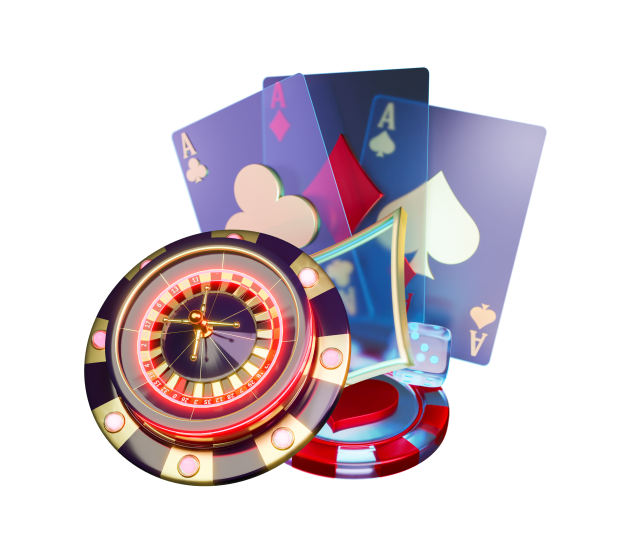
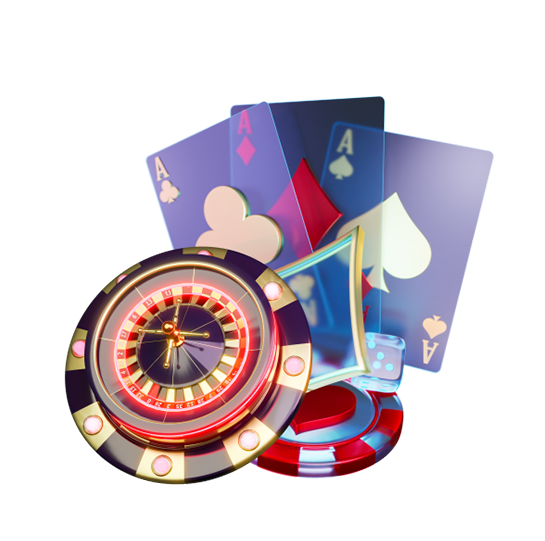
add new pages

Changed region(s): [[0.0936, 0.1183, 0.9046, 0.9168]]

diff --git a/slot-games.html b/slot-games.html
@@ -3,7 +3,7 @@
 <head>
     <meta charset="UTF-8">
     <meta name="viewport" content="width=device-width, initial-scale=1.0">
-    <title>Live Casino | Panalobet | Best Online Casino Philippines Panalobet 888 Free.</title>
+    <title>Slot Games | Panalobet | Best Online Casino Philippines Panalobet 888 Free.</title>
     <meta name="description" content="Discover the most trustworthy online casino in the Philippines and ensure the safety of your sports betting with Panalo88bet's professional team.">
     <meta name="keywords" content="PANALOBET online casino,Online slot,Sports,Live Casino">
     <link href="css/style.css" rel="stylesheet" type="text/css" />
@@ -25,8 +25,8 @@
                     <div class="nav-menu">
                         <ul class="main-menu">
                             <li><a href="index.html">Home</a></li>
-                            <li class="active"><a href="live-casino.html">Live Casino</a></li>
-                            <li><a href="slot-games.html">Slot</a></li>
+                            <li><a href="live-casino.html">Live Casino</a></li>
+                            <li  class="active"><a href="slot-games.html">Slot</a></li>
                             <li><a href="cockfight.html">Cockfight</a></li>
                             <li><a href="promotion.html">Promotion</a></li>
                             <li><a href="contact.html">Contact Us</a></li>
@@ -44,21 +44,22 @@
         <section class="hero-banner">
             <div class="inner-wrapper"> 
                 <div class="hero-copy">
-                    <h1>Your Ultimate Destination for Online Live Casino Excellence</h1>
+                    <h1>Your Premier Destination for the Best Slot Games in the Philippines</h1>
                     <a href="" class="btn orange">Join Now</a>
                 </div>
                 <div class="hero-img">
-                    <img src="images/live-casino.png" alt=""/>
+                    <img src="images/slot-games.png" alt=""/>
                 </div>
             </div>
         </section>
         <section class="inner-content">
             <div class="container">
-                <p class="text-center">In the bustling world of <a href="https://panalobet.com.ph/" target="_blank">online gaming</a>, Panalobet shines as a beacon of excellence, offering players an unparalleled experience in <a href="https://panalobet.com.ph/ph/en/casino" target="_blank">live casino entertainment</a>. With a commitment to innovation, integrity, and customer satisfaction, Panalobet stands as a leader in the industry, providing an extensive array of the best online live casino games to thrill and delight players from all walks of life.</p>
+                <p class="text-center">When it comes to the excitement and thrill of <a href="https://panalobet.com.ph/ph/en/slot">slot gaming</a>, Panalobet stands out as the premier destination for players in the Philippines. With a commitment to excellence, innovation, and customer satisfaction, Panalobet offers an unrivaled selection of the best slot games, providing an unforgettable gaming experience for enthusiasts of all levels.</p>
+           
             </div>
             <div class="container lc-container">
-                <h2 class="text-center text-yellow">Diverse Selection of Live Casino Games</h2>
-                <p class="text-center">At Panalobet, diversity reigns supreme. With an impressive selection of <a href="https://panalobet.com.ph/ph/en/casino" target="_blank">live casino games</a>, ranging from classics like blackjack, roulette, baccarat, and poker to innovative new offerings, there's something to suit every player's taste and preference. Whether you're a seasoned pro or a novice enthusiast, Panalobet offers a gaming experience that caters to your skill level and desired level of excitement.</p>
+                <h2 class="text-center text-yellow">Unparalleled Variety of Slot Games </h2>
+                <p class="text-center">Panalobet boasts an extensive library of slot games, featuring a diverse range of themes, styles, and gameplay mechanics to cater to every player's preferences. From classic fruit machines to cutting-edge video slots, there's something for everyone at Panalobet. Whether you're in the mood for an adventure-filled journey through ancient civilizations, a whimsical trip to the world of fantasy, or a pulse-pounding adrenaline rush with high-stakes action, Panalobet has the perfect slot game to suit your mood.</p>
                 <div class="blurb-gallery">
                     <div class="blurb-box">
                         <div class="blurb-img">
@@ -66,7 +67,7 @@
                         </div>
                         <div class="blurb-copy">
                             <h3 class="text-center">Immersive Gameplay Experience</h3>
-                            <p class="text-center">Step into the world of Panalobet and prepare to be transported to the heart of the action. Thanks to cutting-edge technology and high-definition streaming capabilities, Panalobet delivers an immersive gameplay experience like no other. From the crisp graphics to the realistic sound effects, every aspect of the live casino environment is designed to captivate your senses and enhance your enjoyment.</p>
+                            <p class="text-center">Prepare to be captivated by the immersive and engaging gameplay offered by Panalobet's slot games. With stunning visuals, captivating sound effects, and innovative bonus features, each game is designed to transport players to a world of excitement and entertainment. Whether you're spinning the reels in search of big wins or enjoying the interactive bonus rounds, the thrill of slot gaming comes to life in spectacular fashion at Panalobet.</p>
                           
                         </div>
                     </div>
@@ -75,9 +76,9 @@
                             <img src="images/professional-dealer.png" style="animation: float 5s ease-in-out infinite"/>
                         </div>
                         <div class="blurb-copy">
-                            <h3 class="text-center">Professional Live <br/>Dealers </h3>
-                            <p class="text-center">Central to the Panalobet experience are the professional live dealers who oversee gameplay with precision and expertise. Handpicked for their skill, professionalism, and engaging personalities, Panalobet's live dealers ensure a seamless and authentic casino experience from the comfort of your own home. Interact with dealers in real-time, chat with fellow players, and immerse yourself in the camaraderie of the gaming community as you vie for victory in your favorite games.</p>
-                          
+                            <h3 class="text-center">Progressive Jackpots and Lucrative Rewards</h3>
+                            <p class="text-center">For those seeking the chance to win big, Panalobet offers a selection of progressive jackpot slots where the potential for life-changing wins awaits. With jackpots that grow with every bet placed, players have the opportunity to strike it rich with a single spin. Whether you're aiming for the top prize in a popular progressive slot or hoping to land a lucrative payout in a lesser- known gem, the excitement of chasing big wins is always within reach at Panalobet.</p>
+                    
                         </div>
                     </div>
                     <div class="blurb-box">
@@ -86,7 +87,8 @@
                         </div>
                         <div class="blurb-copy">
                             <h3 class="text-center">Convenience and <br/>Accessibility</h3>
-                            <p class="text-center">At Panalobet, convenience is key. With a user-friendly interface and seamless integration across desktop and mobile platforms, accessing your favorite live casino games has never been easier. Whether you're at home, on the go, or anywhere in between, Panalobet ensures uninterrupted access to the excitement and thrills of live casino gaming at your fingertips.</p>
+                            <p class="text-center">
+                                Panalobet prioritizes convenience and accessibility, ensuring that players can enjoy their favorite <a href="https://panalobet.com.ph/ph/en/slot"> slot games</a> anytime, anywhere. With a user-friendly interface and seamless integration across desktop and mobile platforms, accessing Panalobet's vast selection of slot games has never been easier. Whether you're playing from the comfort of your own home or on the go, Panalobet offers uninterrupted access to the excitement and thrills of slot gaming at your fingertips.</p>
                           
                         </div>
                     </div>
@@ -97,15 +99,16 @@
                         <div class="blurb-copy">
                             <h3 class="text-center">Secure and Reliable <br/>
                                 Gaming Environment </h3>
-                            <p class="text-center">Rest assured that your safety and security are top priorities at Panalobet. Utilizing state-of- the-art encryption technology and robust security protocols, Panalobet safeguards your personal and financial information with the utmost care and diligence. Play with peace of mind, knowing that your data is protected and your transactions are secure at all times.</p>
+                            <p class="text-center">
+                                At Panalobet, players can rest assured that their safety and security are top priorities. Utilizing state-of-the-art encryption technology and stringent security measures, Panalobet safeguards players' personal and financial information with the utmost care and diligence. With a transparent and accountable approach to gaming, Panalobet provides a trustworthy and reliable gaming environment where players can enjoy their favorite slot games with peace of mind.</p>
                           
                         </div>
                     </div>
                 </div>
                 <div class="" style="margin-top: 50px">
                         <h4 class="title-headline sunflower">Exceptional Customer Support</h4>
-                        <p>At Panalobet, customer satisfaction is paramount. Our dedicated <a href="https://t.me/Panalo_Bet" target="_blank"> support team</a> is available around the clock to assist you with any questions, concerns, or technical issues you may encounter. Whether you need help navigating the platform, resolving a payment issue, or just want to chat, our friendly and knowledgeable support staff are here to help, ensuring a smooth and enjoyable gaming experience for all.</p>
-                        <p>Panalobet stands as the ultimate destination for online live casino excellence. With a diverse selection of games, immersive gameplay experience, professional live dealers, convenience and accessibility, secure and reliable gaming environment, and exceptional customer support, Panalobet offers everything you need for an unforgettable gaming experience. Join us today and discover the thrill of live casino gaming at its finest with Panalobet.</p>
+                        <p>Panalobet prides itself on delivering exceptional customer service to ensure that every player's needs are met. With a dedicated <a href="https://t.me/Panalo_Bet" target="blank"> support team</a> available 24/7, players can receive prompt and personalized assistance with any questions, concerns, or technical issues they may encounter. Whether you need help navigating the platform, making a deposit or withdrawal, or simply want to provide feedback, Panalobet's friendly and knowledgeable support staff are here to help every step of the way.</p>
+                        <p>In conclusion, Panalobet stands as the ultimate destination for the best slot games in the Philippines. With its unparalleled variety of slot games, immersive gameplay, progressive jackpots, convenience and accessibility, secure gaming environment, and exceptional customer service, Panalobet offers everything players need for an unforgettable gaming experience. Join Panalobet today and discover the excitement and thrill of slot gaming at its finest.</p>
                     </div>
                     
                 </div>

diff --git a/cockfight.html b/cockfight.html
@@ -3,7 +3,7 @@
 <head>
     <meta charset="UTF-8">
     <meta name="viewport" content="width=device-width, initial-scale=1.0">
-    <title>Live Casino | Panalobet | Best Online Casino Philippines Panalobet 888 Free.</title>
+    <title>Cockfight| Panalobet | Best Online Casino Philippines Panalobet 888 Free.</title>
     <meta name="description" content="Discover the most trustworthy online casino in the Philippines and ensure the safety of your sports betting with Panalo88bet's professional team.">
     <meta name="keywords" content="PANALOBET online casino,Online slot,Sports,Live Casino">
     <link href="css/style.css" rel="stylesheet" type="text/css" />
@@ -25,9 +25,9 @@
                     <div class="nav-menu">
                         <ul class="main-menu">
                             <li><a href="index.html">Home</a></li>
-                            <li class="active"><a href="live-casino.html">Live Casino</a></li>
+                            <li><a href="live-casino.html">Live Casino</a></li>
                             <li><a href="slot-games.html">Slot</a></li>
-                            <li><a href="cockfight.html">Cockfight</a></li>
+                            <li  class="active"><a href="cockfight.html">Cockfight</a></li>
                             <li><a href="promotion.html">Promotion</a></li>
                             <li><a href="contact.html">Contact Us</a></li>
                         </ul>
@@ -44,29 +44,29 @@
         <section class="hero-banner">
             <div class="inner-wrapper"> 
                 <div class="hero-copy">
-                    <h1>Your Ultimate Destination for Online Live Casino Excellence</h1>
+                    <h1>Your Premier Destination for the Best Live Cockfighting in the Philippines</h1>
                     <a href="" class="btn orange">Join Now</a>
                 </div>
                 <div class="hero-img">
-                    <img src="images/live-casino.png" alt=""/>
+                    <img src="images/cockfight.png" alt=""/>
                 </div>
             </div>
         </section>
         <section class="inner-content">
             <div class="container">
-                <p class="text-center">In the bustling world of <a href="https://panalobet.com.ph/" target="_blank">online gaming</a>, Panalobet shines as a beacon of excellence, offering players an unparalleled experience in <a href="https://panalobet.com.ph/ph/en/casino" target="_blank">live casino entertainment</a>. With a commitment to innovation, integrity, and customer satisfaction, Panalobet stands as a leader in the industry, providing an extensive array of the best online live casino games to thrill and delight players from all walks of life.</p>
+                <p class="text-center">Step into the electrifying world of live <a href="https://panalobet.com.ph/ph/en/open-game/2048/ICF/null">cockfighting</a> with Panalobet, the ultimate destination for enthusiasts seeking the thrill and excitement of this time-honored tradition in the Philippines. With a commitment to excellence, authenticity, and customer satisfaction, Panalobet delivers an unrivaled live cockfighting experience that captivates audiences and keeps them on the edge of their seats.</p>
             </div>
             <div class="container lc-container">
-                <h2 class="text-center text-yellow">Diverse Selection of Live Casino Games</h2>
-                <p class="text-center">At Panalobet, diversity reigns supreme. With an impressive selection of <a href="https://panalobet.com.ph/ph/en/casino" target="_blank">live casino games</a>, ranging from classics like blackjack, roulette, baccarat, and poker to innovative new offerings, there's something to suit every player's taste and preference. Whether you're a seasoned pro or a novice enthusiast, Panalobet offers a gaming experience that caters to your skill level and desired level of excitement.</p>
+                <h2 class="text-center text-yellow">Authentic Cockfighting Experience</h2>
+                <p class="text-center">At Panalobet, authenticity is key. With live broadcasts of cockfights from premier arenas across the Philippines, players can immerse themselves in the heart-pounding action and adrenaline-fueled excitement of this beloved sport. From the sounds of the cheering crowd to the clash of roosters in the pit, every aspect of the cockfighting experience is faithfully recreated, transporting viewers to the heart of the action from the comfort of their own home.</p>
                 <div class="blurb-gallery">
                     <div class="blurb-box">
                         <div class="blurb-img">
                             <img src="images/immersive-gameplay.png" style="animation: float 6s ease-in-out infinite"/>
                         </div>
                         <div class="blurb-copy">
-                            <h3 class="text-center">Immersive Gameplay Experience</h3>
-                            <p class="text-center">Step into the world of Panalobet and prepare to be transported to the heart of the action. Thanks to cutting-edge technology and high-definition streaming capabilities, Panalobet delivers an immersive gameplay experience like no other. From the crisp graphics to the realistic sound effects, every aspect of the live casino environment is designed to captivate your senses and enhance your enjoyment.</p>
+                            <h3 class="text-center">Wide Range of Matches and Events</h3>
+                            <p class="text-center">Panalobet offers a diverse array of cockfighting matches and events to cater to every taste and preference. Whether you prefer traditional one-on-one duels or multi-cock derbies featuring the fiercest competitors in the sport, Panalobet has something for everyone. With a schedule packed full of thrilling matchups and high-stakes showdowns, there's always something exciting to watch and wager on at Panalobet.</p>
                           
                         </div>
                     </div>
@@ -75,8 +75,8 @@
                             <img src="images/professional-dealer.png" style="animation: float 5s ease-in-out infinite"/>
                         </div>
                         <div class="blurb-copy">
-                            <h3 class="text-center">Professional Live <br/>Dealers </h3>
-                            <p class="text-center">Central to the Panalobet experience are the professional live dealers who oversee gameplay with precision and expertise. Handpicked for their skill, professionalism, and engaging personalities, Panalobet's live dealers ensure a seamless and authentic casino experience from the comfort of your own home. Interact with dealers in real-time, chat with fellow players, and immerse yourself in the camaraderie of the gaming community as you vie for victory in your favorite games.</p>
+                            <h3 class="text-center">Interactive Wagering </br>Platform </h3>
+                            <p class="text-center">Experience the thrill of live cockfighting like never before with Panalobet's interactive wagering platform. With real-time odds, live updates, and intuitive betting interfaces, players can place their bets with confidence and precision, maximizing their chances of success. Whether you're a seasoned bettor or a novice enthusiast, Panalobet's user-friendly platform makes it easy to get in on the action and join the excitement of live cockfighting.</p>
                           
                         </div>
                     </div>
@@ -85,27 +85,16 @@
                             <img src="images/Convenience-accessibility.png" style="animation: float 6s ease-in-out infinite"/>
                         </div>
                         <div class="blurb-copy">
-                            <h3 class="text-center">Convenience and <br/>Accessibility</h3>
-                            <p class="text-center">At Panalobet, convenience is key. With a user-friendly interface and seamless integration across desktop and mobile platforms, accessing your favorite live casino games has never been easier. Whether you're at home, on the go, or anywhere in between, Panalobet ensures uninterrupted access to the excitement and thrills of live casino gaming at your fingertips.</p>
+                            <h3 class="text-center">Secure and Reliable Gaming Environment</h3>
+                            <p class="text-center">At Panalobet, player safety and security are top priorities. Utilizing state-of-the-art encryption technology and stringent security measures, Panalobet ensures that players' personal and financial information is protected at all times. With a transparent and accountable approach to gaming, players can enjoy peace of mind knowing that they are betting on a fair and reliable platform that prioritizes their well-being.</p>
                           
                         </div>
                     </div>
-                    <div class="blurb-box">
-                        <div class="blurb-img">
-                            <img src="images/reliable-gaming-environment.png" style="animation: float 6s ease-in-out infinite"/>
-                        </div>
-                        <div class="blurb-copy">
-                            <h3 class="text-center">Secure and Reliable <br/>
-                                Gaming Environment </h3>
-                            <p class="text-center">Rest assured that your safety and security are top priorities at Panalobet. Utilizing state-of- the-art encryption technology and robust security protocols, Panalobet safeguards your personal and financial information with the utmost care and diligence. Play with peace of mind, knowing that your data is protected and your transactions are secure at all times.</p>
-                          
-                        </div>
-                    </div>
-                </div>
+
                 <div class="" style="margin-top: 50px">
                         <h4 class="title-headline sunflower">Exceptional Customer Support</h4>
-                        <p>At Panalobet, customer satisfaction is paramount. Our dedicated <a href="https://t.me/Panalo_Bet" target="_blank"> support team</a> is available around the clock to assist you with any questions, concerns, or technical issues you may encounter. Whether you need help navigating the platform, resolving a payment issue, or just want to chat, our friendly and knowledgeable support staff are here to help, ensuring a smooth and enjoyable gaming experience for all.</p>
-                        <p>Panalobet stands as the ultimate destination for online live casino excellence. With a diverse selection of games, immersive gameplay experience, professional live dealers, convenience and accessibility, secure and reliable gaming environment, and exceptional customer support, Panalobet offers everything you need for an unforgettable gaming experience. Join us today and discover the thrill of live casino gaming at its finest with Panalobet.</p>
+                        <p>Panalobet prides itself on delivering exceptional customer support to ensure that every player's needs are met. With a dedicated <a href="https://t.me/Panalo_Bet" target="_blank"> support team</a> available 24/7, players can receive prompt and personalized assistance with any questions, concerns, or technical issues they may encounter. Whether you need help navigating the platform, understanding the betting options, or resolving an account issue, Panalobet's friendly and knowledgeable support staff are here to help every step of the way.</p>
+                        <p>In conclusion, Panalobet stands as the premier destination for the best live cockfighting in the Philippines. With its authentic cockfighting experience, wide range of matches and events, interactive wagering platform, secure gaming environment, and exceptional customer support, Panalobet offers everything enthusiasts need for an unforgettable cockfighting experience. Join Panalobet today and experience the excitement and adrenaline of live cockfighting at its finest.</p>
                     </div>
                     
                 </div>

diff --git a/css/style.css b/css/style.css
@@ -19,6 +19,7 @@ html {
   --yellow: #ffd000;
   --blue: #0025A6;
   --darkblue: #11055C;
+  --topPostion: 38%;
 }
 
 body {
@@ -423,6 +424,17 @@ body {
     transform: translatey(0px);
   }
 }
+@keyframes levitate {
+  0% {
+    top: calc(var(--topPostion));
+  }
+  50% {
+    top: calc(var(--topPostion) + 15px);
+  }
+  100% {
+    top: calc(var(--topPostion));
+  }
+}
 header {
   padding: 10px 0;
   transition: all 200ms linear;
@@ -433,7 +445,7 @@ header.fixed {
   position: fixed;
   width: 100%;
   z-index: 9999;
-  background-color: var(--blue);
+  background-color: var(--darkblue);
   box-shadow: 1px 1px 5px rgba(0, 0, 0, 0.4);
 }
 header .wrapper {
@@ -767,7 +779,6 @@ header nav .nav-btns {
   width: 100%;
   height: auto;
   padding: 30px;
-  overflow: hidden;
   margin-bottom: 30px;
 }
 .hero-banner .inner-wrapper {
@@ -779,6 +790,7 @@ header nav .nav-btns {
   padding: 30px 40px;
   display: flex;
   justify-content: space-between;
+  min-height: 340px;
 }
 .hero-banner .inner-wrapper .hero-copy {
   flex: 0 60%;
@@ -797,9 +809,10 @@ header nav .nav-btns {
 }
 .hero-banner .inner-wrapper .hero-img img {
   position: absolute;
-  top: 45%;
-  left: 50%;
+  top: var(--topPostion);
+  left: 42%;
   transform: translate(-50%, -50%);
+  animation: levitate 6s ease-in-out infinite;
 }
 @media screen and (max-width: 980px) {
   .hero-banner .inner-wrapper {
@@ -876,7 +889,7 @@ p a:hover {
 }
 
 h1 {
-  font-size: clamp(1.75rem, -0.75rem + 8vw, 3.75rem);
+  font-size: clamp(2.375rem, 1.5938rem + 2.5vw, 3rem);
 }
 
 h2 {

diff --git a/index.html b/index.html
@@ -26,12 +26,12 @@
                     </div>
                     <div class="nav-menu">
                         <ul class="main-menu">
-                            <li class="active"><a href="">Home</a></li>
+                            <li class="active"><a href="index.html">Home</a></li>
                             <li><a href="live-casino.html">Live Casino</a></li>
-                            <li><a href="">Slot</a></li>
-                            <li><a href="">Cockfight</a></li>
-                            <li><a href="">Promotion</a></li>
-                            <li><a href="">Contact Us</a></li>
+                            <li><a href="slot-games.html">Slot</a></li>
+                            <li><a href="cockfight.html">Cockfight</a></li>
+                            <li><a href="promotion.html">Promotion</a></li>
+                            <li><a href="contact.html">Contact Us</a></li>
                         </ul>
                     </div>
                 </div>

diff --git a/css/_hero.scss b/css/_hero.scss
@@ -89,8 +89,8 @@
     width: 100%;
     height: auto;
     padding: 30px;
-    overflow: hidden;
     margin-bottom: 30px;
+
     .inner-wrapper{
         border-radius: 30px;
         background-image: url(/images/wave-pattern.png);
@@ -100,6 +100,7 @@
         padding: 30px 40px;
         display: flex;
         justify-content: space-between;
+        min-height: 340px;
         .hero-copy{
             flex: 0 60%;
             padding: 40px 0;
@@ -116,9 +117,10 @@
             z-index: 1;
             img{
                 position: absolute;
-                top: 45%;
-                left: 50%;
+                top: var(--topPostion);
+                left: 42%;
                 transform: translate(-50%, -50%);
+                animation: levitate 6s ease-in-out infinite
             }
         }
         @media screen and (max-width: 980px) {

diff --git a/css/_default.scss b/css/_default.scss
@@ -18,6 +18,7 @@ html{
     --yellow: #ffd000;
     --blue: #0025A6;
     --darkblue: #11055C;
+    --topPostion: 38%;
 }
 
 body{
@@ -431,5 +432,18 @@ body{
 	}
 	100% {
 		transform: translatey(0px);
+	}
+}
+
+
+@keyframes levitate {
+	0% {
+		top: calc(var(--topPostion));
+	}
+	50% {
+		top: calc(var(--topPostion) + 15px);
+	}
+	100% {
+		top: calc(var(--topPostion));
 	}
 }

diff --git a/css/_header.scss b/css/_header.scss
@@ -7,7 +7,7 @@ header{
         position: fixed;
         width: 100%;
         z-index: 9999;
-        background-color: var(--blue);
+        background-color: var(--darkblue);
         box-shadow: 1px 1px 5px rgba(0,0,0,0.4);
     }
     .wrapper{

diff --git a/css/_typography.scss b/css/_typography.scss
@@ -16,7 +16,7 @@ p{
     }
 }
 h1{
-    font-size: clamp(1.75rem, -0.75rem + 8vw, 3.75rem);
+    font-size: clamp(2.375rem, 1.5938rem + 2.5vw, 3rem);
 }
 h2{
     font-size: clamp(2rem, 1.5833rem + 0.8681vw, 2.625rem);
